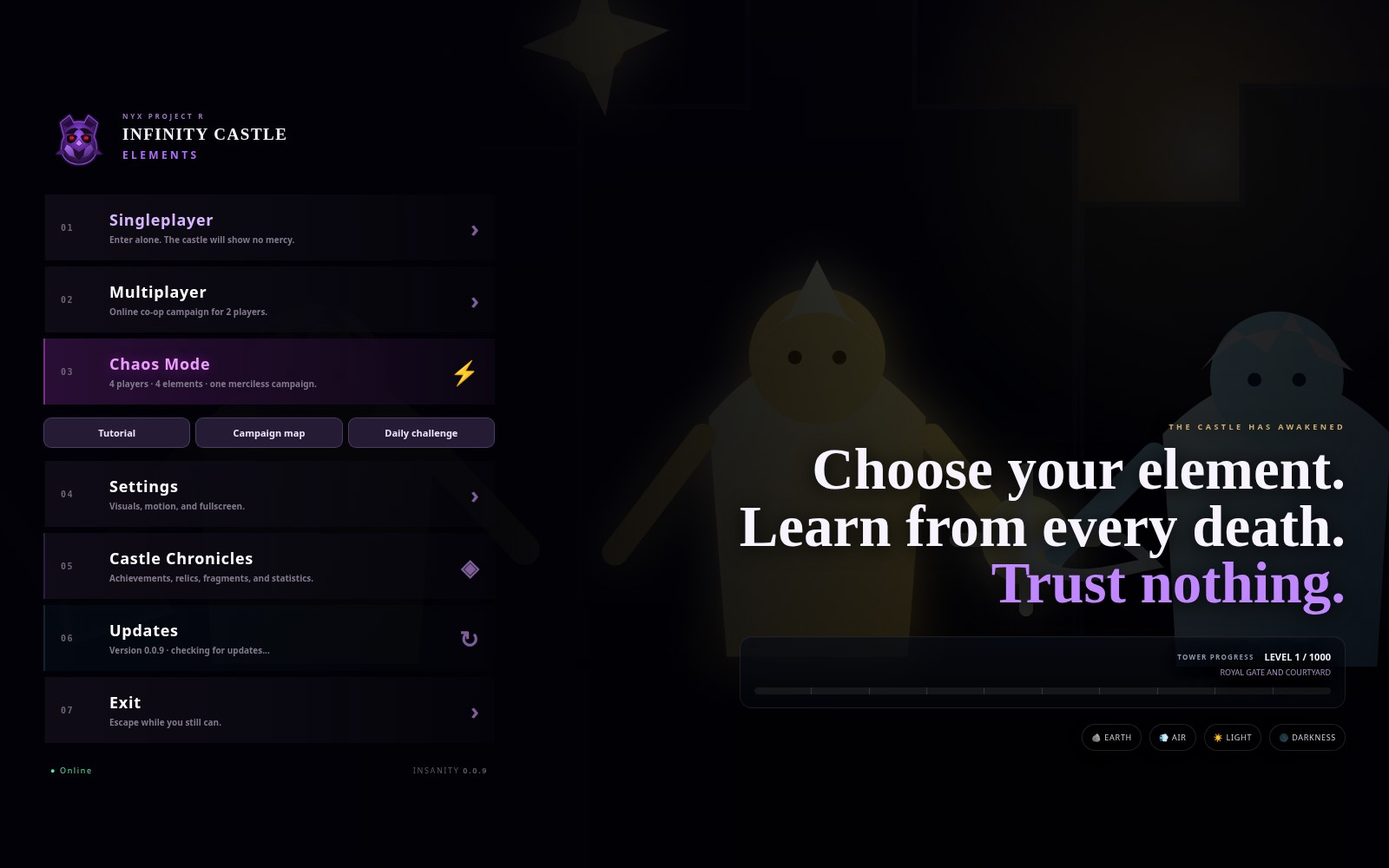
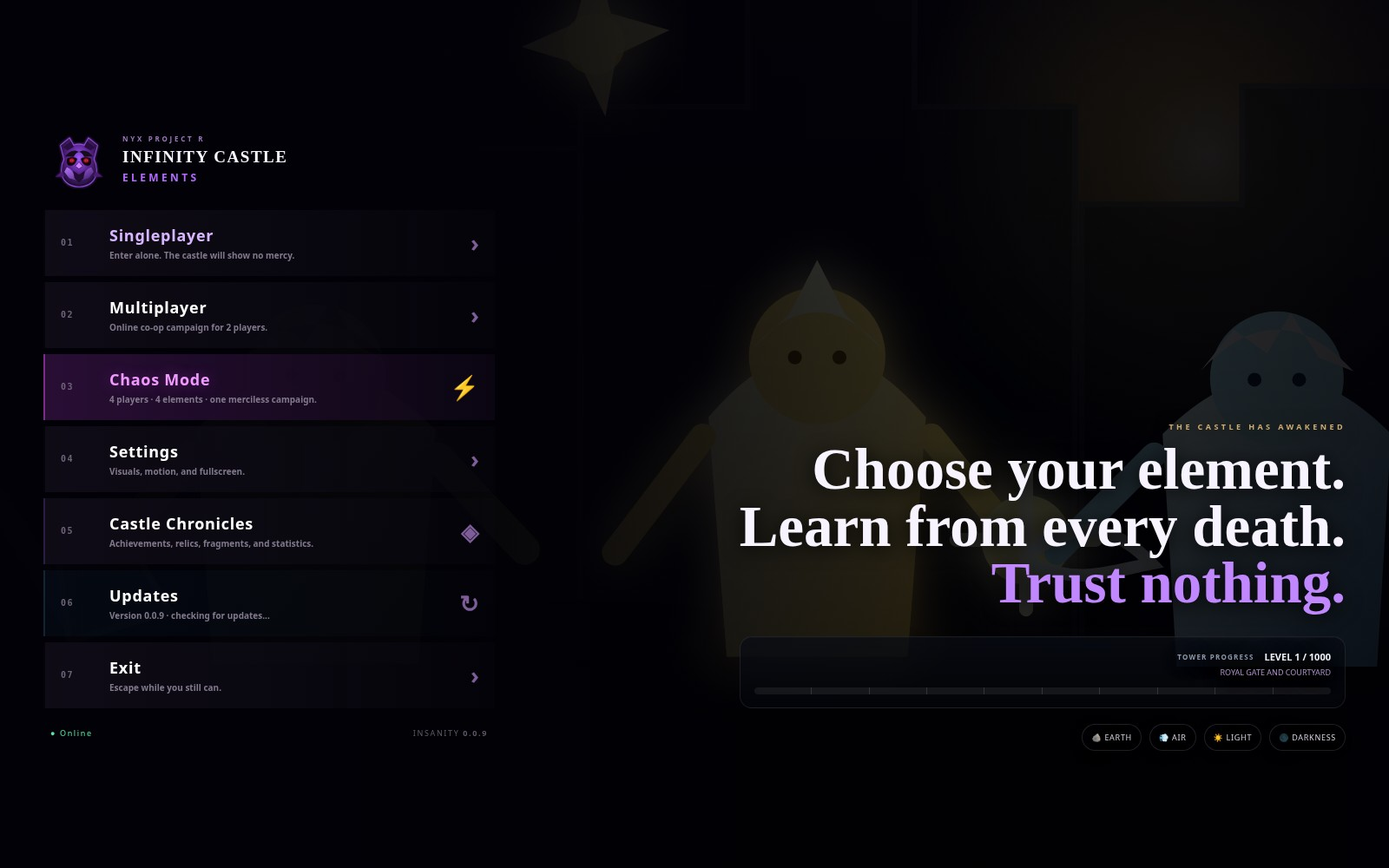
fix: keep 0.0.9 activities inside Singleplayer

diff --git a/tools/test-browser.js b/tools/test-browser.js
@@ -23,10 +23,36 @@ let base;const out=fs.mkdtempSync(path.join(os.tmpdir(),'ice-browser-'));
    const p=await c.newPage();p.on('pageerror',e=>errors.push(e.message));await p.goto(base+'/?menu');await p.waitForFunction(()=>!!window.ICEFeatures);return p;
   }
   const p=await page();
+  await p.waitForTimeout(800);
+  const activities=p.locator('#menuTutorialBtn,#menuMapBtn,#menuDailyBtn');
+  assert.equal(await p.locator('.main-nav .journey-launch').count(),0);
+  assert.equal(await p.locator('#soloSetup .journey-launch button').count(),3);
+  for(const viewport of [{width:1366,height:768},{width:1280,height:720},{width:960,height:540},{width:390,height:844},{width:853,height:393},{width:320,height:568}]){
+   await p.setViewportSize(viewport);
+   const layout=await p.evaluate(()=>{
+    const nav=document.querySelector('.main-nav'),panel=document.querySelector('.menu-panel').getBoundingClientRect(),footer=document.querySelector('.menu-footer').getBoundingClientRect();
+    return {width:innerWidth,height:innerHeight,scrollWidth:nav.scrollWidth,clientWidth:nav.clientWidth,scrollHeight:nav.scrollHeight,clientHeight:nav.clientHeight,panel:{top:panel.top,bottom:panel.bottom},footer:{top:footer.top,bottom:footer.bottom},scrollbar:getComputedStyle(nav).scrollbarWidth};
+   });
+   assert.ok(layout.scrollWidth<=layout.clientWidth+1,JSON.stringify(layout));
+   assert.ok(layout.panel.top>=0&&layout.panel.bottom<=layout.height+1,JSON.stringify(layout));
+   assert.ok(layout.footer.top>=0&&layout.footer.bottom<=layout.height+1,JSON.stringify(layout));
+   assert.equal(layout.scrollbar,'thin');
+   if(viewport.width>=1280)assert.ok(layout.scrollHeight<=layout.clientHeight+1,JSON.stringify(layout));
+   await p.locator('#menuExitBtn').scrollIntoViewIfNeeded();const exit=await p.locator('#menuExitBtn').boundingBox();assert.ok(exit.y>=0&&exit.y+exit.height<=viewport.height+1,JSON.stringify(exit));
+  }
+  await p.setViewportSize({width:1600,height:1000});
+  for(const mode of ['Multi','Chaos']){
+   await p.locator('#menu'+mode+'Btn').click();
+   for(const button of await activities.all())assert.equal(await button.isVisible(),false,'Solo activities must be hidden in '+mode);
+   await p.locator('#backToMenuBtn').click();
+  }
+  await p.locator('#menuSingleBtn').click();
+  for(const button of await activities.all())assert.equal(await button.isVisible(),true,'Solo activities are available inside Singleplayer');
+  await p.locator('#backToMenuBtn').click();
   const campaign=await p.evaluate(()=>localStorage.getItem('infinity-castle-elements-solo-v1'));
   
-  await p.locator('#menuTutorialBtn').click();await p.waitForTimeout(400);
-  assert.equal(await p.evaluate(()=>state.activity.type),'tutorial');
+  await p.locator('#menuSingleBtn').click();await p.locator('#menuTutorialBtn').click();await p.waitForTimeout(400);
+  assert.equal(await p.evaluate(()=>state.activity.type),'tutorial');assert.equal(await p.evaluate(()=>state.mode),'singleplayer');
   await p.keyboard.down('d');await p.waitForFunction(()=>player.x>290);await p.keyboard.down('w');await p.waitForFunction(()=>state.activity.stage>=2);
   await p.keyboard.up('w');await p.keyboard.up('d');await p.keyboard.press('Space');await p.waitForFunction(()=>state.activity.stage===3);
   
@@ -38,17 +64,17 @@ let base;const out=fs.mkdtempSync(path.join(os.tmpdir(),'ice-browser-'));
   assert.equal(await p.evaluate(()=>localStorage.getItem('infinity-castle-elements-solo-v1')),campaign);
   assert.equal(await p.evaluate(()=>profile.coins),73);
   assert.equal(await p.evaluate(()=>profile.stats.deaths),78);
-  await p.locator('#activityMenuBtn').click();await p.locator('#menuMapBtn').click();
+  await p.locator('#activityMenuBtn').click();await p.locator('#menuSingleBtn').click();await p.locator('#menuMapBtn').click();
   await p.locator('#mapRegion').selectOption('0');await p.locator('[data-level="100"]').click();
   
-  await p.locator('#mapPlayBtn').click();assert.ok(await p.evaluate(()=>!!state.levelData.boss));
+  await p.locator('#mapPlayBtn').click();assert.ok(await p.evaluate(()=>!!state.levelData.boss));assert.equal(await p.evaluate(()=>state.mode),'singleplayer');
   await p.evaluate(()=>ICEFeatures.finish());await p.locator('#journeyResultView').waitFor({state:'visible'});
   assert.ok(await p.evaluate(()=>profile.progress.practice[100]));assert.equal(await p.evaluate(()=>profile.progress.records[100]),undefined);
   assert.equal(await p.evaluate(()=>profile.progress.unlocked),214);
   assert.equal(await p.evaluate(()=>localStorage.getItem('infinity-castle-elements-solo-v1')),campaign);
-  await p.locator('#activityMenuBtn').click();await p.locator('#menuDailyBtn').click();await p.locator('#dailyPlayBtn').click();
+  await p.locator('#activityMenuBtn').click();await p.locator('#menuSingleBtn').click();await p.locator('#menuDailyBtn').click();await p.locator('#dailyPlayBtn').click();
   const daily=await p.evaluate(()=>({level:state.level,role:state.role,expected:ICEJourney.daily(),relic:activeRelicId(),boosts:state.activeBoosts,geometry:JSON.stringify(state.levelData)}));
-  assert.equal(daily.level,daily.expected.level);assert.equal(daily.role,daily.expected.role);assert.equal(daily.relic,null);assert.equal(Object.values(daily.boosts).some(Boolean),false);
+  assert.equal(await p.evaluate(()=>state.mode),'singleplayer');assert.equal(daily.level,daily.expected.level);assert.equal(daily.role,daily.expected.role);assert.equal(daily.relic,null);assert.equal(Object.values(daily.boosts).some(Boolean),false);
   await p.evaluate(()=>{addCoins(200);state.invulnUntil=0;die();});await p.waitForTimeout(800);
   assert.equal(await p.evaluate(()=>JSON.stringify(state.levelData)),daily.geometry,'Daily retry geometry is deterministic');assert.equal(await p.evaluate(()=>profile.coins),73);
   await p.keyboard.press('Escape');await p.locator('#pauseSettingsBtn').click();
@@ -63,11 +89,11 @@ let base;const out=fs.mkdtempSync(path.join(os.tmpdir(),'ice-browser-'));
   assert.equal(await p.evaluate(()=>localStorage.getItem('infinity-castle-elements-solo-v1')),campaign);
   await p.locator('#activityMenuBtn').click();await p.reload();await p.waitForFunction(()=>!!window.ICEFeatures);
   assert.equal(await p.evaluate(()=>inputController.bindings.jump[0]),'KeyJ');assert.equal(await p.evaluate(()=>profile.settings.touch.ability.size),110);assert.equal(await p.evaluate(()=>profile.settings.audio.music),.32);
-  await p.locator('#menuTutorialBtn').click();await p.waitForTimeout(350);await p.keyboard.press('KeyW');assert.equal(await p.evaluate(()=>state.runStats.jumps),0);await p.keyboard.press('KeyJ');await p.waitForFunction(()=>state.runStats.jumps===1);
+  await p.locator('#menuSingleBtn').click();await p.locator('#menuTutorialBtn').click();await p.waitForTimeout(350);await p.keyboard.press('KeyW');assert.equal(await p.evaluate(()=>state.runStats.jumps),0);await p.keyboard.press('KeyJ');await p.waitForFunction(()=>state.runStats.jumps===1);
   await p.evaluate(()=>navigator.serviceWorker.ready);await p.waitForFunction(async()=>{for(const name of await caches.keys()){const c=await caches.open(name);if(await c.match('/journey-ui.js'))return true;}return false;});
-  await p.context().setOffline(true);await p.reload();await p.waitForFunction(()=>!!window.ICEFeatures);await p.locator('#menuDailyBtn').click();await p.locator('#dailyPlayBtn').click();assert.equal(await p.evaluate(()=>state.activity.type),'daily');
+  await p.context().setOffline(true);await p.reload();await p.waitForFunction(()=>!!window.ICEFeatures);await p.locator('#menuSingleBtn').click();await p.locator('#menuDailyBtn').click();await p.locator('#dailyPlayBtn').click();assert.equal(await p.evaluate(()=>state.activity.type),'daily');
   await p.context().close();
-  const m=await page(true);await m.locator('#menuTutorialBtn').click();await m.waitForTimeout(550);await m.locator('#mobileControls').waitFor({state:'visible'});
+  const m=await page(true);await m.locator('#menuSingleBtn').click();await m.locator('#menuTutorialBtn').click();await m.waitForTimeout(550);await m.locator('#mobileControls').waitFor({state:'visible'});
   for(const el of await m.locator('.mobile-control-button').all()){const b=await el.boundingBox();assert.ok(b.x>=0&&b.y>=0&&b.x+b.width<=961&&b.y+b.height<=541,JSON.stringify(b));}
   const jump=await m.locator('[data-touch-key="w"]').boundingBox();await m.touchscreen.tap(jump.x+jump.width/2,jump.y+jump.height/2);await m.waitForFunction(()=>state.runStats.jumps>0);
   await m.context().close();
@@ -85,6 +111,6 @@ let base;const out=fs.mkdtempSync(path.join(os.tmpdir(),'ice-browser-'));
   await guest.keyboard.press('Escape');await guest.locator('#pauseMainMenuBtn').click();await host.locator('#room').waitFor({state:'visible'});
   assert.equal(await guest.evaluate(()=>sessionStorage.getItem('ice-network-session')),null);
   await host.context().close();await guest.context().close();
-  assert.deepEqual(errors,[]);console.log('PASS: playable tutorial inputs, cooperation gate, boss practice, campaign isolation, daily determinism, rebinding/conflicts, saved touch/audio preferences, offline activities, mobile tap jump and browser reconnect/reload.');
+  assert.deepEqual(errors,[]);console.log('PASS: responsive menu without horizontal overflow, Singleplayer-only activity navigation, playable tutorial inputs, cooperation gate, boss practice, campaign isolation, daily determinism, rebinding/conflicts, saved touch/audio preferences, offline activities, mobile tap jump and browser reconnect/reload.');
  }finally{await browser?.close();if(server.listening)await new Promise(r=>server.close(r));fs.rmSync(out,{recursive:true,force:true});}
 })().catch(e=>{console.error(e);process.exitCode=1;});

diff --git a/public/style.css b/public/style.css
@@ -101,11 +101,22 @@ body.boot-sequence{overflow:hidden;background:#000}
 /* MENU PRINCIPAL */
 .menu-bg{filter:saturate(.95) contrast(1.12) brightness(.39);background-position:65% center;animation-duration:25s}
 .menu-vignette{background:linear-gradient(90deg,rgba(2,1,7,.96) 0%,rgba(2,1,7,.87) 34%,rgba(2,1,7,.22) 70%,rgba(2,1,7,.56) 100%),linear-gradient(180deg,rgba(0,0,0,.18),rgba(0,0,0,.62))}
-.menu-layout{width:min(1500px,94vw);height:min(850px,92vh);display:grid;grid-template-columns:minmax(390px,520px) 1fr;gap:70px;align-items:center;position:relative}
-.menu-panel{align-self:stretch;display:flex;flex-direction:column;justify-content:center;padding:48px 0 30px;animation:menuSlide .75s cubic-bezier(.2,.8,.2,1) both}
-.menu-brand-mini{display:flex;align-items:center;gap:16px;margin:0 0 32px 7px}.menu-brand-mini img{width:68px;height:68px}.menu-brand-mini small{display:block;font-size:8px;letter-spacing:.34em;color:#9e75bd;font-weight:900;margin-bottom:5px}.menu-brand-mini b{font-family:Georgia,serif;letter-spacing:.08em;font-size:19px;line-height:1.02}.menu-brand-mini b span{color:#b46aff;font-family:system-ui,sans-serif;font-size:12px;letter-spacing:.28em}
-.main-nav{display:flex;flex-direction:column;gap:7px}.menu-choice{position:relative;width:100%;min-height:76px;border:0;border-left:2px solid transparent;border-radius:0;background:linear-gradient(90deg,rgba(17,13,25,.88),rgba(12,10,18,.32));padding:12px 18px;display:grid;grid-template-columns:42px 1fr auto;align-items:center;gap:14px;text-align:left;box-shadow:none;overflow:hidden}.menu-choice:before{content:"";position:absolute;inset:0;transform:translateX(-101%);background:linear-gradient(90deg,rgba(143,72,220,.22),rgba(143,72,220,.04));transition:transform .22s ease}.menu-choice:hover:before,.menu-choice:focus-visible:before{transform:translateX(0)}.menu-choice:hover,.menu-choice:focus-visible{transform:translateX(9px);border-left-color:#af69f2;outline:none}.menu-choice>*{position:relative;z-index:1}.menu-index{font-family:ui-monospace,monospace;font-size:10px;letter-spacing:.15em;color:#6e6378}.menu-choice b{display:block;font-size:18px;letter-spacing:.04em}.menu-choice small{display:block;color:#81788c;font-size:10px;margin-top:4px;font-weight:600}.menu-choice em{font-style:normal;font-size:27px;color:#7e5d99}.primary-choice b{color:#d8b5ff}.danger-choice:hover{border-left-color:#e64c65}.danger-choice:hover:before{background:linear-gradient(90deg,rgba(203,42,66,.17),transparent)}
-.menu-footer{display:flex;justify-content:space-between;margin-top:25px;padding:0 8px;color:#5f5866;font-size:9px;letter-spacing:.18em}.menu-footer span:first-child{color:#78d7a9}
+.menu-layout{width:min(1500px,94vw);height:min(850px,94dvh);min-height:0;display:grid;grid-template-columns:minmax(390px,520px) minmax(0,1fr);gap:70px;align-items:center;position:relative}
+.menu-panel{align-self:stretch;min-width:0;min-height:0;display:flex;flex-direction:column;justify-content:center;padding:clamp(12px,2.5dvh,28px) 0;animation:menuSlide .75s cubic-bezier(.2,.8,.2,1) both}
+.menu-brand-mini{display:flex;flex-shrink:0;align-items:center;gap:16px;margin:0 0 clamp(12px,2.4dvh,24px) 7px}.menu-brand-mini img{width:68px;height:68px}.menu-brand-mini small{display:block;font-size:8px;letter-spacing:.34em;color:#9e75bd;font-weight:900;margin-bottom:5px}.menu-brand-mini b{font-family:Georgia,serif;letter-spacing:.08em;font-size:19px;line-height:1.02}.menu-brand-mini b span{color:#b46aff;font-family:system-ui,sans-serif;font-size:12px;letter-spacing:.28em}
+.main-nav{display:flex;flex-direction:column;gap:7px;min-height:0;overflow-x:hidden;overflow-y:auto;overscroll-behavior:contain;scrollbar-width:thin;scrollbar-color:#715385 transparent}.menu-choice{position:relative;width:100%;flex-shrink:0;min-height:clamp(56px,8.8dvh,76px);border:0;border-left:2px solid transparent;border-radius:0;background:linear-gradient(90deg,rgba(17,13,25,.88),rgba(12,10,18,.32));padding:12px 18px;display:grid;grid-template-columns:42px 1fr auto;align-items:center;gap:14px;text-align:left;box-shadow:none;overflow:hidden}.menu-choice:before{content:"";position:absolute;inset:0;transform:translateX(-101%);background:linear-gradient(90deg,rgba(143,72,220,.22),rgba(143,72,220,.04));transition:transform .22s ease}.menu-choice:hover:before,.menu-choice:focus-visible:before{transform:translateX(0)}.menu-choice:hover,.menu-choice:focus-visible{transform:none;border-left-color:#af69f2;outline:none}.menu-choice>*{position:relative;z-index:1}.menu-index{font-family:ui-monospace,monospace;font-size:10px;letter-spacing:.15em;color:#6e6378}.menu-choice b{display:block;font-size:18px;letter-spacing:.04em}.menu-choice small{display:block;color:#81788c;font-size:10px;margin-top:4px;font-weight:600}.menu-choice em{font-style:normal;font-size:27px;color:#7e5d99}.primary-choice b{color:#d8b5ff}.danger-choice:hover{border-left-color:#e64c65}.danger-choice:hover:before{background:linear-gradient(90deg,rgba(203,42,66,.17),transparent)}
+.menu-footer{display:flex;flex-shrink:0;flex-wrap:wrap;gap:8px;justify-content:space-between;margin-top:clamp(12px,2.4dvh,22px);padding:0 8px;color:#5f5866;font-size:9px;letter-spacing:.18em}.menu-footer span:first-child{color:#78d7a9}
+.main-nav::-webkit-scrollbar{width:6px;height:0}
+.main-nav::-webkit-scrollbar-track,.main-nav::-webkit-scrollbar-corner{background:transparent}
+.main-nav::-webkit-scrollbar-thumb{background:#715385;border-radius:6px}
+.main-nav::-webkit-scrollbar-button{display:none}
+.menu-choice:focus-visible{box-shadow:inset 0 0 0 2px #af69f2}
+@media(max-height:640px){
+  .menu-brand-mini img{width:48px;height:48px}
+  .menu-choice{min-height:48px;padding:9px 16px}
+  .menu-choice b{font-size:15px}
+  .menu-choice small{font-size:9px;line-height:1.4}
+}
 .menu-story-card{align-self:end;margin-bottom:60px;max-width:720px;justify-self:end;text-align:right;text-shadow:0 3px 22px #000;animation:titleReveal 1.2s .12s both}.menu-story-card>p{font-size:9px;letter-spacing:.38em;color:#cfab6c;font-weight:900}.menu-story-card h2{font-family:Georgia,serif;font-size:clamp(34px,4.3vw,67px);line-height:.98;margin:10px 0 28px}.menu-story-card h2 em{color:#c187ff;font-style:normal}.menu-elements{display:flex;gap:9px;justify-content:flex-end;flex-wrap:wrap}.menu-elements span{border:1px solid rgba(255,255,255,.13);background:rgba(3,2,8,.55);backdrop-filter:blur(8px);padding:8px 10px;border-radius:99px;font-size:9px;letter-spacing:.08em;color:#d6cfdf}
 
 /* SETTINGS */
@@ -129,7 +140,7 @@ body.reduce-motion *,body.reduce-motion *:before,body.reduce-motion *:after{anim
 @media(max-width:900px){
   .studio-lockup{flex-direction:column;gap:18px;text-align:center}.owl-stage{width:180px}.studio-copy{border-left:0;border-top:1px solid rgba(174,100,255,.28);padding:25px 0 0;min-width:0}.studio-copy h1{font-size:36px}.studio-kicker{letter-spacing:.3em}
   .title-kicker,.title-tagline{letter-spacing:.19em}.game-logo span{font-size:62px}.game-logo span:nth-child(2){font-size:58px;margin-top:14px}.game-logo strong{font-size:25px;letter-spacing:.22em;padding-left:.22em}.element-sigils{bottom:16px}
-  .menu-layout{grid-template-columns:1fr;height:auto;min-height:100%;padding:25px 12px}.menu-panel{align-self:center;padding:20px 0}.menu-story-card{display:none}.menu-choice{min-height:68px}.menu-brand-mini{margin-bottom:18px}.menu-bg{background-position:center}
+  .menu-layout{grid-template-columns:1fr;padding:0 12px}.menu-panel{padding:clamp(12px,2.5dvh,20px) 0}.menu-story-card{display:none}.menu-brand-mini{margin-bottom:18px}.menu-bg{background-position:center}
   .topbar-actions #backToMenuBtn{order:3;width:100%}
 }
 

diff --git a/public/journey.css b/public/journey.css
@@ -1,5 +1,5 @@
 #journeyModal{z-index:1250}
-.journey-launch{display:flex;gap:6px;padding:8px 0;flex-wrap:wrap}.journey-launch button{flex:1;min-width:70px;padding:9px 6px;font-size:11px;border:1px solid #9d7bc655;border-radius:9px;background:#251b35;color:#eee2ff}.main-nav{overflow-y:auto;overscroll-behavior:contain;max-height:calc(100dvh - 170px)}
+.journey-launch{display:grid;gap:8px;padding:14px 0 0;border-top:1px solid #9d7bc633}.journey-launch button{width:100%;min-width:0;padding:12px 14px;font-size:13px;text-align:start;border:1px solid #9d7bc655;border-radius:9px;background:#251b35;color:#eee2ff}.journey-launch button:focus-visible{outline:2px solid #d4a8ff;outline-offset:2px}
 .journey-card{width:min(1000px,94vw);max-height:90dvh;overflow:auto}.journey-card label{display:flex;align-items:center;gap:12px;margin:10px 0}.journey-card p{line-height:1.6;color:#c9c2d6}.journey-card select,.feature-settings select{background:#211b2b;color:#f3eafa;border:1px solid #71568c;border-radius:7px;padding:8px}.map-levels{display:grid;grid-template-columns:repeat(10,minmax(0,1fr));gap:7px;margin:20px 0}.map-levels button{min-height:54px;padding:7px 3px;border:1px solid #786090;background:#20172e;color:#eae2f4;border-radius:8px}.map-levels button.completed{border-color:#91c17b;color:#bdedb0}.map-levels button.selected{outline:2px solid #ffe082;outline-offset:1px}.map-levels button:disabled{opacity:.28;cursor:not-allowed}.map-levels small{display:block;font-size:9px}.journey-result-actions{display:flex;gap:12px}
 .feature-settings{border:1px solid #65507866;border-radius:12px;margin:20px 0 0;padding:14px;min-width:0}.feature-settings legend{font-weight:700;color:#e2c7ff;padding:0 8px}.feature-settings p{font-size:12px;line-height:1.5;color:#beb4cd}.feature-settings label{display:flex;flex-wrap:wrap;align-items:center;gap:12px;margin:12px 0}.feature-settings input[type=range]{flex:1;min-width:110px;accent-color:#ba8dff}.feature-settings output{width:48px;text-align:end;font-size:12px;color:#c8bad8}.key-bindings{display:grid;grid-template-columns:1fr 1fr;gap:8px}.key-bindings button{display:flex;justify-content:space-between;gap:10px;padding:10px;background:#231a31;border:1px solid #72578a;border-radius:8px;color:#f4e9ff}.key-bindings button.binding{outline:2px solid #ffe387}.key-bindings kbd{color:#f6df98;font-family:inherit}.touch-layout-preview{position:relative;width:100%;height:150px;background:linear-gradient(170deg,#201a2c,#090b13);border:1px solid #564462;border-radius:10px;overflow:hidden}.touch-layout-preview span{position:absolute;display:grid;place-items:center;transform:translate(-50%,-50%);border:1px solid #cda9ff88;border-radius:50%;background:#9364cb77;color:white;font-size:12px}
 .network-status{position:fixed;z-index:90;left:50%;top:80px;transform:translateX(-50%);max-width:90vw;padding:14px 20px;background:#1e172af5;border:1px solid #e8bd66;border-radius:12px;color:#ffdfa0;text-align:center}.activity-status{position:fixed;z-index:16;top:85px;left:20px;max-width:min(490px,calc(100vw - 40px));padding:14px 18px;background:#11101ce8;border:1px solid #9e7cc666;border-radius:12px;backdrop-filter:blur(8px);pointer-events:none}.activity-status b,.activity-status span{display:block}.activity-status b{font-size:13px;color:#f1d998;margin-bottom:6px}.activity-status span{font-size:12px;color:#e0d9ec;line-height:1.5}.activity-status button{pointer-events:auto;font-size:11px;margin-top:10px;padding:5px 10px}.feature-settings button,.journey-card button{cursor:pointer}.feature-settings button:focus-visible,.journey-launch button:focus-visible,.journey-card button:focus-visible{outline:2px solid #ffe387;outline-offset:2px}

diff --git a/public/index.html b/public/index.html
@@ -59,7 +59,6 @@
           <button id="menuSingleBtn" class="menu-choice primary-choice"><span class="menu-index">01</span><span><b>Singleplayer</b><small>Entre sozinho. O castelo não terá pena.</small></span><em>›</em></button>
           <button id="menuMultiBtn" class="menu-choice"><span class="menu-index">02</span><span><b>Multiplayer</b><small>Campanha cooperativa online para 2 jogadores.</small></span><em>›</em></button>
           <button id="menuChaosBtn" class="menu-choice chaos-choice"><span class="menu-index">03</span><span><b>Modo Caos</b><small>4 jogadores · 4 elementos · uma campanha sem misericórdia.</small></span><em>⚡</em></button>
-          <div class="journey-launch"><button id="menuTutorialBtn" type="button">Tutorial</button><button id="menuMapBtn" type="button">Mapa da campanha</button><button id="menuDailyBtn" type="button">Desafio diário</button></div>
           <button id="menuSettingsBtn" class="menu-choice"><span class="menu-index">04</span><span><b>Configurações</b><small>Visual, movimento e tela cheia.</small></span><em>›</em></button>
           <button id="menuChronicleBtn" class="menu-choice chronicle-choice"><span class="menu-index">05</span><span><b>Crônicas do Castelo</b><small>Conquistas, relíquias, fragmentos e estatísticas.</small></span><em>◈</em></button>
           <button id="menuUpdatesBtn" class="menu-choice updates-choice"><span class="menu-index">06</span><span><b>Atualizações</b><small id="menuUpdatesStatus">Versão 0.0.9 · verificando novidades...</small></span><em id="menuUpdatesIcon">↻</em></button>
@@ -169,6 +168,7 @@
           <button id="soloBtn" class="primary solo-primary">▶ Nova aventura solo</button>
           <button id="continueSoloBtn" class="ghost hidden">↻ Continuar solo</button>
           <p class="fine">No solo você joga com <b>apenas o elemento escolhido</b>. Portas e chefes se adaptam para continuarem possíveis com um único personagem.</p>
+          <div class="journey-launch"><button id="menuTutorialBtn" type="button">Tutorial</button><button id="menuMapBtn" type="button">Mapa da campanha</button><button id="menuDailyBtn" type="button">Desafio diário</button></div>
         </div>
 
         <div id="multiSetup" class="hidden">

diff --git a/public/sw.js b/public/sw.js
@@ -1,4 +1,4 @@
-const CACHE='infinity-castle-elements-0.0.9-visuals-2';
+const CACHE='infinity-castle-elements-0.0.9-singleplayer-menu-3';
 const CORE=['/','/index.html','/style.css','/game.js','/translations.js','/i18n.js','/visuals.js','/journey.js','/input.js','/audio.js','/journey-ui.js','/journey.css','/nyx-owl.svg','/element-party.svg','/manifest.webmanifest'];
 self.addEventListener('install',event=>{
   event.waitUntil(caches.open(CACHE).then(cache=>cache.addAll(CORE)).then(()=>self.skipWaiting()));

diff --git a/README.md b/README.md
@@ -66,12 +66,14 @@ The following captures show the current web build. The mobile image shows the re
 
 ## What’s new in 0.0.9 — Player Experience Update
 
-- **Playable tutorial:** choose **Tutorial** in the main menu. Learn movement, jumping, elemental powers, and two-pressure-plate cooperation with a demonstration partner. Falling returns you to a checkpoint. Tutorial progress never replaces your campaign save.
+**Singleplayer activities:** open **Singleplayer** from the main menu to find **Tutorial**, **Mapa da campanha** (Campaign map), and **Desafio diário** (Daily challenge) below the campaign buttons. These activities belong to Singleplayer and are not available in Multiplayer or Chaos Mode. The corrected 0.0.9 menu fits standard desktop windows without a horizontal scrollbar; smaller screens keep a narrow, themed vertical scrollbar when needed.
+
+- **Playable tutorial:** choose **Singleplayer → Tutorial**. Learn movement, jumping, elemental powers, and two-pressure-plate cooperation with a demonstration partner. Falling returns you to a checkpoint. Tutorial progress never replaces your campaign save.
 - **30-second reconnection:** a dropped connection reserves the same slot and element for 30 seconds. The room waits, then restores positions, revealed traps, seals, defeated enemies, and power cooldowns. Reloading the same browser tab can also resume the reservation. Choosing Back to menu releases the slot immediately. Reservations are held in server memory and cannot survive a server restart.
-- **Campaign map:** choose **Mapa da campanha** (Campaign map), select a region, element, and unlocked level, then choose **Treinar fase** (Practice level). Crown icons mark bosses. Campaign and practice best times are kept separately. Existing saves unlock previously reached levels; detailed times start recording with 0.0.9.
+- **Campaign map:** choose **Singleplayer → Mapa da campanha** (Campaign map), select a region, element, and unlocked level, then choose **Treinar fase** (Practice level). Crown icons mark bosses. Campaign and practice best times are kept separately. Existing saves unlock previously reached levels; detailed times start recording with 0.0.9.
 - **Custom controls:** in **Configurações → Controles**, select an action and press a new key. Conflicts and reserved interface keys are rejected; Escape cancels a binding and remains the pause/back key. **Controles de toque** lets you choose a touch button and adjust its size and horizontal/vertical position, with a preview. Reset controls restores the defaults.
 - **Reactive audio:** original procedural sounds distinguish Earth, Air, Light, and Darkness. The music changes for bosses and pursuits. Master, music, and effects volumes and mute are saved under **Áudio**. Browser audio begins after a click, tap, or key press and stops when the game loses focus.
-- **Daily challenge:** choose **Desafio diário**. Everyone receives the same deterministic level and element for the same UTC date. The challenge changes at midnight UTC. Relics, boosts, and adaptive traps are disabled. Results are stored locally for up to 60 days; there is no global leaderboard. Daily play and practice do not spend campaign boosts, grant campaign rewards, or overwrite campaign progress.
+- **Daily challenge:** choose **Singleplayer → Desafio diário**. Everyone receives the same deterministic level and element for the same UTC date. The challenge changes at midnight UTC. Relics, boosts, and adaptive traps are disabled. Results are stored locally for up to 60 days; there is no global leaderboard. Daily play and practice do not spend campaign boosts, grant campaign rewards, or overwrite campaign progress.
 - **Translation review:** Portuguese and English copy received an editorial pass, 18 locale glossaries were corrected, and all new messages are included offline. Independent native-speaker review remains open; see [localization review notes](./docs/LOCALIZATION.md).
 
 ![Campaign map with unlocked levels and boss practice](./docs/images/campaign-map-0.0.9.png)

diff --git a/RELEASE_NOTES.md b/RELEASE_NOTES.md
@@ -1,5 +1,11 @@
 # Infinity Castle Elements — INSANITY 0.0.9
 
+## Menu correction in 0.0.9
+
+- Tutorial, Campaign map, and Daily challenge now appear inside the **Singleplayer** setup, below the campaign buttons. They are hidden in Multiplayer and Chaos Mode.
+- The main menu adapts to the available window height, keeps its footer visible, and prevents horizontal scrolling. Small screens use a narrow purple scrollbar when vertical scrolling is needed.
+- Offline web installations refresh their cached menu assets. Windows and Android downloads are rebuilt under the same 0.0.9 version.
+
 ## Player Experience Update
 
 - A playable tutorial teaches movement, jumping, elemental powers, and pressure-plate cooperation with a demonstration partner and safe checkpoints.
